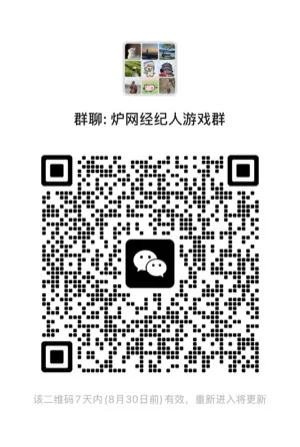
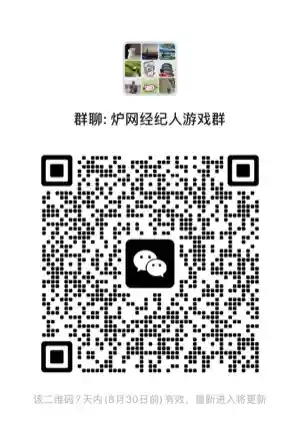
Fix manager announcement QR cache

diff --git a/index.html b/index.html
@@ -4774,7 +4774,7 @@ function renderManagerDemo(force){
           :(allTransferAfter?managerStationName()+'换人窗口已结束。':managerStationName()+'已截止提交，请等待换人窗口。')))
       :managerStationName()+'开售时间待确认。');
   if(MANAGER_ACTIVE_EVENTS&&MANAGER_ACTIVE_EVENTS.announcement)stationNotice=MANAGER_ACTIVE_EVENTS.announcement;
-  var wechat='<div class="manager-wechat-card"><div class="manager-wechat-copy"><div class="manager-wechat-alert">'+esc(stationNotice)+'</div><div class="manager-wechat-line main">本游戏每周跟随巡回赛历开新赛事</div><div class="manager-wechat-line">如需 <span class="manager-wechat-em">开售提醒</span>、<span class="manager-wechat-em">换人窗口提醒</span> 请扫码进本游戏官方群</div></div><img class="manager-wechat-qr" src="assets/manager/wechat-group-qr.webp?v=20260823-1" alt="微信群二维码" width="92" height="122" loading="eager" decoding="async" fetchpriority="high"></div>';
+  var wechat='<div class="manager-wechat-card"><div class="manager-wechat-copy"><div class="manager-wechat-alert">'+esc(stationNotice)+'</div><div class="manager-wechat-line main">本游戏每周跟随巡回赛历开新赛事</div><div class="manager-wechat-line">如需 <span class="manager-wechat-em">开售提醒</span>、<span class="manager-wechat-em">换人窗口提醒</span> 请扫码进本游戏官方群</div></div><img class="manager-wechat-qr" src="assets/manager/wechat-group-qr.webp?v=20260823-2" alt="微信群二维码" width="92" height="122" loading="eager" decoding="async" fetchpriority="high"></div>';
   var previewPending=managerLocalSimulationMode()&&MANAGER_ACTIVE_EVENTS&&MANAGER_ACTIVE_EVENTS.status==='preview';
   var previewReady=previewPending&&MANAGER_ACTIVE_EVENTS.rules&&MANAGER_ACTIVE_EVENTS.rules.combo_design_status==='confirmed'&&submissionWindow.status!=='pending';
   var qaBanner=managerLocalSimulationMode()?'<div class="manager-note" style="margin-bottom:10px"><b>'+(managerLocalQaMode()?'本地换人测试模式：':'本地模拟提交模式：')+'</b>'+(previewPending&&!managerLocalQaMode()?(previewReady?'本站签表、排名、Elo、价格、开售时间和 Combo 已确认，可测试低保折扣与阵容提交；换人窗口仍待确认。':'本站仅供审核官方签表、排名、Elo、价格和组建草稿；开售时间、Combo 和换人窗口尚未确认。'):(managerLocalQaMode()?'提交和换人窗口均已开放；':'可以正常测试选择球员、提交、撤回和换人；'))+'这些阵容操作只保存在当前浏览器，不会写入线上 Supabase。</div>':'';
